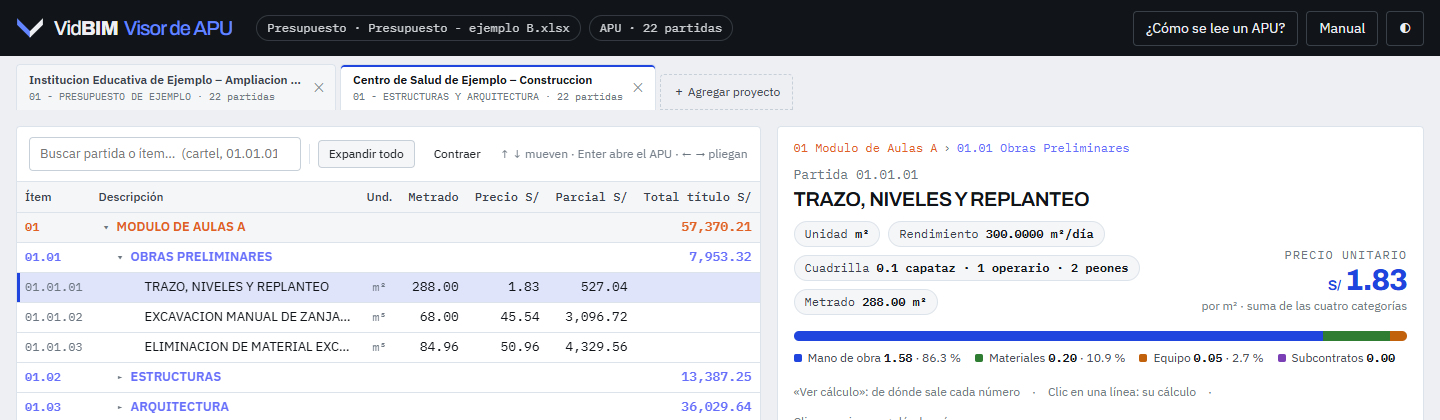
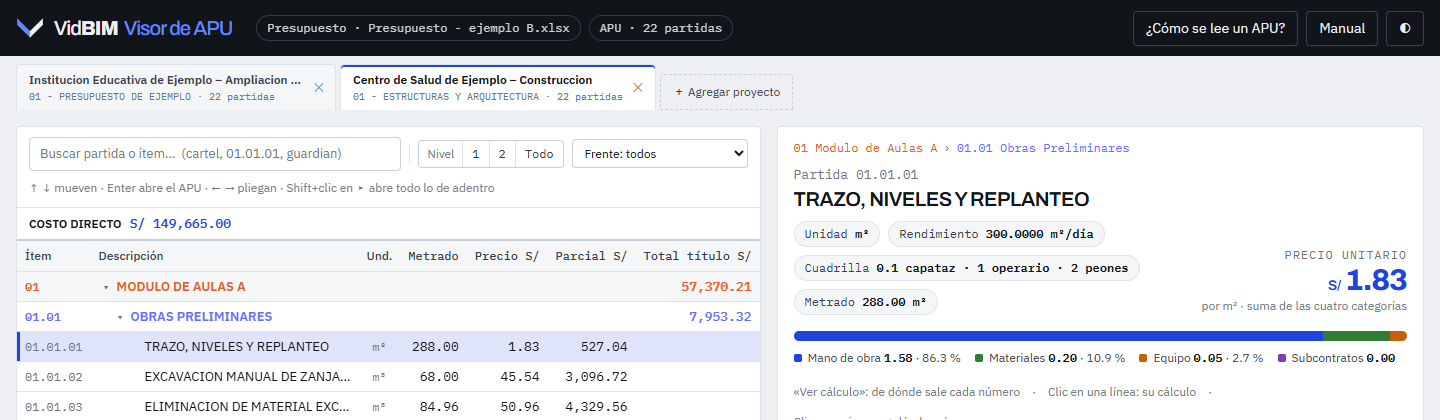
Costo directo fijo arriba, niveles 1-2-3 como Excel, filtro por frente de trabajo y Shift+clic para abrir una rama; manual actualizado

diff --git a/index.html b/index.html
@@ -97,14 +97,26 @@ button{font:inherit;cursor:pointer}
 .panel{background:var(--superficie);border:1px solid var(--linea);border-radius:var(--radio);min-width:0}
 
 /* ─ presupuesto (como la ventana de VidBIM Costos) ─ */
-.pres{position:sticky;top:16px;height:calc(100vh - var(--cabecera-alto) - 32px);max-height:calc(100vh - 32px);display:flex;flex-direction:column}
+.pres{position:sticky;top:16px;height:calc(100vh - var(--sobre-pres, 56px) - 32px);min-height:420px;max-height:calc(100vh - 32px);display:flex;flex-direction:column}
 .pres .herr{display:flex;gap:8px;align-items:center;padding:10px 12px;border-bottom:1px solid var(--linea);flex-wrap:wrap}
 .pres input{flex:1;min-width:180px;border:1px solid var(--linea-fuerte);border-radius:var(--radio);padding:6px 10px;background:var(--superficie);color:var(--tinta);font:inherit;font-size:var(--t-tabla)}
 .pres input:focus{outline:2px solid var(--azul);outline-offset:-1px}
 .pres .herr .sep{width:1px;height:20px;background:var(--linea)}
+.niveles{display:inline-flex;align-items:center;border:1px solid var(--linea-fuerte);border-radius:var(--radio);overflow:hidden;font-size:var(--t-aux)}
+.niveles span{padding:0 8px;color:var(--gris)}
+.niveles button{border:0;border-left:1px solid var(--linea);background:var(--superficie);color:var(--tinta-2);padding:4px 9px;font-family:var(--f-datos);font-size:var(--t-aux)}
+.niveles button:hover{background:var(--superficie-3)}
+.niveles button.activo{background:var(--azul-tinte);color:var(--azul);font-weight:600}
+.frente{max-width:280px;border:1px solid var(--linea-fuerte);border-radius:var(--radio);padding:5px 8px;background:var(--superficie);color:var(--tinta);font:inherit;font-size:var(--t-aux)}
+.frente.activo{border-color:var(--azul);color:var(--azul);background:var(--azul-tinte)}
+.cdfija{padding:6px 12px;border-bottom:2px solid var(--linea-fuerte);font-size:var(--t-aux);color:var(--tinta-2);display:flex;flex-wrap:wrap;gap:4px 8px;align-items:baseline}
+.cdfija b{font-family:var(--f-datos);font-size:var(--t-tabla);color:var(--azul);font-weight:600}
+.cdfija .de{font-weight:600;color:var(--tinta)}
+.cdfija small{color:var(--gris);font-family:var(--f-datos)}
 .pres .scroll{overflow:auto;flex:1;min-height:0}
 table.grilla{width:100%;border-collapse:collapse;font-size:var(--t-tabla)}
-.grilla th{position:sticky;top:0;background:var(--superficie-2);font-size:var(--t-aux);font-weight:500;color:var(--tinta-2);text-align:left;padding:6px 8px;border-bottom:1px solid var(--linea);white-space:nowrap;z-index:1}
+.grilla thead{position:sticky;top:0;z-index:2}
+.grilla th{background:var(--superficie-2);font-size:var(--t-aux);font-weight:500;color:var(--tinta-2);text-align:left;padding:6px 8px;border-bottom:1px solid var(--linea);white-space:nowrap;z-index:1}
 .grilla th.num{text-align:right}
 .grilla td{padding:4px 8px;border-bottom:1px solid var(--linea);white-space:nowrap;height:30px}
 .grilla td.de{overflow:hidden;text-overflow:ellipsis;max-width:0;width:100%}
@@ -259,6 +271,7 @@ footer.pie{max-width:1720px;margin:0 auto;padding:8px 16px 32px;font-size:var(--
   .pestanas{padding:8px 12px 0}
   .pestanas .pe{max-width:220px}
   .pres .ayuda{display:none}
+  .frente{max-width:100%;flex:1}
   .pres input{min-width:0;flex-basis:100%}
   .grilla{table-layout:fixed}
   .grilla .oc{display:none}
@@ -366,10 +379,11 @@ footer.pie{max-width:1720px;margin:0 auto;padding:8px 16px 32px;font-size:var(--
     <div class="herr">
       <input type="search" id="buscar" placeholder="Buscar partida o ítem…  (cartel, 01.01.01, guardian)" aria-label="Buscar">
       <span class="sep"></span>
-      <button class="btn chico" id="btnExpandir">Expandir todo</button>
-      <button class="btn chico texto" id="btnContraer">Contraer</button>
-      <span class="ayuda">↑ ↓ mueven · Enter abre el APU · ← → pliegan</span>
+      <div class="niveles" id="niveles" role="group" aria-label="Abrir hasta el nivel"></div>
+      <select class="frente" id="frente" aria-label="Frente de trabajo"><option value="">Frente: todos</option></select>
+      <span class="ayuda">↑ ↓ mueven · Enter abre el APU · ← → pliegan · Shift+clic en ▸ abre todo lo de adentro</span>
     </div>
+    <div class="cdfija" id="filaCd"></div>
     <div class="scroll" id="scrollPres">
       <table class="grilla" id="grilla">
         <colgroup><col class="c-it"><col><col class="oc"><col class="oc"><col class="oc"><col class="c-par"><col class="c-tot"></colgroup>
@@ -629,7 +643,7 @@ async function quitar(id) {
   const p = proyectos.find(x => x.id === id); if (!p) return;
   if (!confirm(`¿Quitar «${etiqueta(p)}»${p.sub ? ' · ' + p.sub : ''} de este navegador? Para verlo otra vez tendrá que cargar sus Excel.`)) return;
   await Almacen.borrar(id).catch(() => {});
-  proyectos = proyectos.filter(x => x !== p); armados.delete(id); estados.delete(id); try { localStorage.removeItem('visor.pos.' + id); } catch (e) {}
+  proyectos = proyectos.filter(x => x !== p); armados.delete(id); estados.delete(id); try { localStorage.removeItem('visor.pos.' + id); localStorage.removeItem('visor.vista.' + id); } catch (e) {}
   if (activo === id) { activo = null; guardar('visor.activo', ''); if (proyectos.length) cambiarA(proyectos[proyectos.length - 1].id); else mostrarPortada(); }
   else { pintarPestanas(); pintarGuardados(); }
 }
@@ -705,9 +719,15 @@ function abrirTablero(p) {
   const e = D.encabezado;
   $('#pieInfo').textContent = [titleCase(e.Proyecto || ''), (e['Costo a'] || '').toLowerCase(), `${F.filter(f => f.esPartida).length.toLocaleString('es-PE')} partidas`, `${nIns.toLocaleString('es-PE')} insumos`].filter(Boolean).join(' · ');
   $('#pieCd').innerHTML = `Costo directo <b>S/ ${f2(D.cd)}</b>`;
+  let vista = {}; try { vista = JSON.parse(leer('visor.vista.' + p.id) || '{}'); } catch (x) {}
+  nivelVista = vista.nivel ?? null; frente = vista.frente || '';
   $('#chipsArchivos').innerHTML = `<span class="chip" title="${esc(p.archivos.presupuesto)}">Presupuesto · ${esc(p.archivos.presupuesto)}</span><span class="chip">APU · ${D.apus.length.toLocaleString('es-PE')} partidas</span>`;
   $('#portada').hidden = true; $('#tablero').hidden = false; $('#pieTablero').hidden = false; $('#btnCambiar').hidden = false; $('#pestanas').hidden = false;
   pintarPestanas();
+  pintarFrentes(); pintarCd();
+  if (nivelVista !== null) plegados = new Set(F.map((f, i) => !f.esPartida && f.tieneHijos && nivelVista > 0 && f.nivel >= nivelVista ? i : -1).filter(i => i >= 0));
+  pintarNiveles();
+  ajustarAlto();
   // Donde se quedó en este proyecto (o la primera partida).
   const est = estados.get(p.id) || { item: leer('visor.pos.' + p.id) };
   $('#buscar').value = '';
@@ -724,8 +744,9 @@ function refrescar() {
   let ocultoHasta = null;   // prefijo del título plegado que oculta a los de abajo
   let visibles = 0;
   F.forEach((f, i) => {
-    let oculta = false;
-    if (filtro) oculta = !filtro.has(i);
+    let oculta = !enFrente(f.item);
+    if (oculta) { /* fuera del frente elegido */ }
+    else if (filtro) oculta = !filtro.has(i);
     else {
       if (ocultoHasta && f.item.startsWith(ocultoHasta)) oculta = true; else ocultoHasta = null;
       if (!oculta && plegados.has(i)) ocultoHasta = f.item + '.';
@@ -737,17 +758,71 @@ function refrescar() {
   });
   $('#nadaPres').hidden = visibles > 0;
 }
-function plegar(i, si) { if (D.filas[i].esPartida || !D.filas[i].tieneHijos) return; if (si) plegados.add(i); else plegados.delete(i); refrescar(); }
+function plegar(i, si) {
+  if (D.filas[i].esPartida || !D.filas[i].tieneHijos) return;
+  if (si) plegados.add(i); else plegados.delete(i);
+  if (nivelVista !== null) { nivelVista = null; pintarNiveles(); guardarVista(); }
+  refrescar();
+}
+// Shift+clic en el triángulo: abre el título y todo lo que tiene adentro (o lo cierra entero).
+function plegarRama(i) {
+  const f = D.filas[i], pre = f.item + '.';
+  const abrir = plegados.has(i) || D.filas.some((g, j) => g.item.startsWith(pre) && plegados.has(j));
+  D.filas.forEach((g, j) => { if (j === i || g.item.startsWith(pre)) { if (!g.esPartida && g.tieneHijos) { if (abrir) plegados.delete(j); else plegados.add(j); } } });
+  if (!abrir) plegados.add(i);
+  if (nivelVista !== null) { nivelVista = null; pintarNiveles(); guardarVista(); }
+  refrescar();
+}
 function abrirAncestros(i) {
   const it = D.filas[i].item.split('.');
   for (let k = 1; k < it.length; k++) { const j = porItemFila[it.slice(0, k).join('.')]; if (j != null) plegados.delete(j); }
 }
-$('#btnExpandir').addEventListener('click', () => { plegados.clear(); refrescar(); });
-$('#btnContraer').addEventListener('click', () => {
-  D.filas.forEach((f, i) => { if (!f.esPartida && f.tieneHijos && f.nivel >= 1) plegados.add(i); });
-  if (sel >= 0) { /* deja visible el nivel 1 */ }
-  refrescar();
+// ── niveles (como los botones 1 2 3 de Excel) y frente de trabajo ──
+let nivelVista = null;   // null = a mano; 0 = todo; n = abiertos hasta el nivel n
+let frente = '';         // ítem del título de nivel 2 elegido ('' = todos)
+function enFrente(item) { return !frente || item === frente || item.startsWith(frente + '.') || frente.startsWith(item + '.'); }
+function verNivel(n) {
+  nivelVista = n;
+  plegados = new Set(D.filas.map((f, i) => !f.esPartida && f.tieneHijos && n > 0 && f.nivel >= n ? i : -1).filter(i => i >= 0));
+  pintarNiveles(); refrescar(); guardarVista();
+  $('#scrollPres').scrollTop = 0;
+}
+function pintarNiveles() {
+  const max = Math.min(7, Math.max(1, ...D.filas.filter(f => !f.esPartida).map(f => f.nivel)));
+  $('#niveles').innerHTML = '<span>Nivel</span>' + Array.from({ length: max }, (_, k) => k + 1).concat([0])
+    .map(n => `<button data-nivel="${n}" class="${nivelVista === n ? 'activo' : ''}" title="${n ? `Abrir hasta el nivel ${n}` : 'Abrir todo'}">${n || 'Todo'}</button>`).join('');
+  $('#niveles').querySelectorAll('button').forEach(b => b.addEventListener('click', () => verNivel(+b.dataset.nivel)));
+}
+function pintarFrentes() {
+  const fs = D.filas.filter(f => !f.esPartida && f.nivel === 2);
+  $('#frente').innerHTML = '<option value="">Frente: todos</option>' +
+    fs.map(f => `<option value="${esc(f.item)}">${esc(f.item)} ${esc(titleCase(f.descripcion))}</option>`).join('');
+  if (!fs.some(f => f.item === frente)) frente = '';
+  $('#frente').value = frente; $('#frente').classList.toggle('activo', !!frente);
+}
+$('#frente').addEventListener('change', e => {
+  frente = e.target.value; e.target.classList.toggle('activo', !!frente);
+  if (frente) { const j = porItemFila[frente]; if (j != null) { abrirAncestros(j); plegados.delete(j); } }
+  if ($('#buscar').value.trim()) buscar(); else refrescar();
+  guardarVista(); pintarCd();
+  $('#scrollPres').scrollTop = 0;
+  // Si la partida elegida quedó fuera del frente, se elige la primera de adentro.
+  if (sel >= 0 && !enFrente(D.filas[sel].item)) { const k = D.filas.findIndex(f => f.esPartida && enFrente(f.item)); if (k >= 0) seleccionar(k); }
 });
+function guardarVista() { if (activo) guardar('visor.vista.' + activo, JSON.stringify({ nivel: nivelVista, frente })); }
+function pintarCd() {
+  const t = frente ? D.filas[porItemFila[frente]] : null;
+  $('#filaCd').innerHTML = t
+    ? `<span class="de">${esc(t.item)} ${esc(titleCase(t.descripcion))}</span><b>S/ ${f2(t.total)}</b><small>de S/ ${f2(D.cd)} (${(t.total / D.cd * 100).toFixed(1)} %)</small>`
+    : `<span class="de">COSTO DIRECTO</span><b>S/ ${f2(D.cd)}</b>`;
+}
+// Alto del panel: lo que queda de pantalla bajo la cabecera y las pestañas.
+function ajustarAlto() {
+  const p = $('#tablero'); if (p.hidden) return;
+  const arriba = p.getBoundingClientRect().top + window.scrollY;
+  document.documentElement.style.setProperty('--sobre-pres', Math.max(0, arriba) + 'px');
+}
+window.addEventListener('resize', ajustarAlto);
 
 // ── búsqueda en vivo ──
 let tBuscar = 0;
@@ -760,7 +835,7 @@ function buscar() {
   const F = D.filas, vis = new Set();
   F.forEach((f, i) => {
     const t = sinTilde(f.item + ' ' + f.descripcion);
-    if (palabras.every(p => t.includes(p))) {
+    if (enFrente(f.item) && palabras.every(p => t.includes(p))) {
       vis.add(i);
       const it = f.item.split('.');
       for (let k = 1; k < it.length; k++) { const j = porItemFila[it.slice(0, k).join('.')]; if (j != null) vis.add(j); }
@@ -781,6 +856,7 @@ function seleccionar(i, mostrarApu = true) {
 }
 function irA(i, bajar = true) {
   if (filtro && !filtro.has(i)) { $('#buscar').value = ''; filtro = null; }
+  if (!enFrente(D.filas[i].item)) { frente = ''; pintarFrentes(); pintarCd(); guardarVista(); }
   abrirAncestros(i); refrescar(); seleccionar(i);
   filasDom[i].scrollIntoView({ block: 'center' });
   if (bajar && matchMedia('(max-width:1100px)').matches) $('#apu').scrollIntoView({ behavior: 'smooth', block: 'start' });
@@ -788,7 +864,7 @@ function irA(i, bajar = true) {
 $('#cuerpoPres').addEventListener('click', e => {
   const tr = e.target.closest('tr'); if (!tr) return;
   const i = +tr.dataset.i;
-  if (e.target.classList.contains('pl')) { plegar(i, !plegados.has(i)); return; }
+  if (e.target.classList.contains('pl')) { if (e.shiftKey) plegarRama(i); else plegar(i, !plegados.has(i)); return; }
   seleccionar(i);
 });
 $('#cuerpoPres').addEventListener('dblclick', e => { const tr = e.target.closest('tr'); if (tr) plegar(+tr.dataset.i, !plegados.has(+tr.dataset.i)); });

diff --git a/manual.html b/manual.html
@@ -107,7 +107,7 @@ footer{max-width:880px;margin:0 auto;padding:0 16px 32px;font-size:var(--t-aux);
       <li><b>＋ Agregar proyecto</b> (al final de las pestañas; en el celular, el <b>＋</b> de la cabecera) lleva a la portada para cargar otros dos Excel.</li>
       <li>Si carga otra vez el mismo proyecto (mismo nombre y subpresupuesto), se <b>actualiza</b> en vez de repetirse: útil cuando exporta una versión nueva.</li>
       <li>La <b>✕</b> de una pestaña quita ese proyecto de este navegador. En la portada puede <b>Quitar</b> uno o <b>Borrar todos</b>.</li>
-      <li>Al volver otro día, el visor abre solo el último proyecto que usó. En otra computadora o en modo privado habrá que cargar los Excel de nuevo.</li>
+      <li>Al volver otro día, el visor abre solo el último proyecto que usó, con su nivel, frente y partida. En otra computadora o en modo privado habrá que cargar los Excel de nuevo.</li>
     </ul>
     <figure><img src="manual/2b-pestanas.png" alt="Pestañas de dos proyectos sobre el presupuesto" loading="lazy"><figcaption>Dos proyectos abiertos: una institución educativa y un centro de salud (ejemplos).</figcaption></figure>
     <figure class="chica"><img src="manual/2c-proyectos.png" alt="Portada con la lista de proyectos guardados" loading="lazy"><figcaption>En la portada, sus proyectos guardados: clic en uno para abrirlo.</figcaption></figure>
@@ -115,13 +115,16 @@ footer{max-width:880px;margin:0 auto;padding:0 16px 32px;font-size:var(--t-aux);
 
   <section class="paso" id="presupuesto">
     <header><span class="n">3</span><h2>Moverse en el presupuesto</h2></header>
-    <p>A la izquierda está el presupuesto, como en la ventana de VidBIM Costos: títulos en el color de su nivel, partidas con metrado, precio y parcial, y el <b>costo directo</b> abajo. Al elegir una partida, su APU aparece a la derecha.</p>
+    <p>A la izquierda está el presupuesto, como en la ventana de VidBIM Costos: títulos en el color de su nivel y partidas con metrado, precio y parcial. Encima de la tabla, siempre a la vista, va el <b>costo directo</b>. Al elegir una partida, su APU aparece a la derecha.</p>
     <ul>
       <li><b>Buscar:</b> escriba parte del nombre o del ítem (<code>pintura latex</code>, <code>01.03</code>); filtra al instante.</li>
-      <li><b>Plegar:</b> clic en el triángulo de un título, o <b>Expandir todo</b> / <b>Contraer</b>.</li>
+      <li><b>Nivel 1 2 3 … Todo:</b> como los botones de agrupar de Excel. <b>1</b> deja solo los títulos principales, <b>2</b> agrega los de segundo nivel, <b>3</b> los del tercero, y <b>Todo</b> abre todas las partidas.</li>
+      <li><b>Frente:</b> elija un frente de trabajo (un título de segundo nivel) para ver solo esa rama. Arriba sale su total y qué parte es del costo directo. Se combina con la búsqueda: «pintura» dentro de un solo frente.</li>
+      <li><b>Plegar:</b> clic en el triángulo de un título. Con <kbd>Shift</kbd>+clic se abre (o se cierra) el título con todo lo que tiene adentro.</li>
       <li><b>Teclado:</b> <kbd>↑</kbd> <kbd>↓</kbd> pasan de fila, <kbd>←</kbd> <kbd>→</kbd> pliegan o suben al título, <kbd>Enter</kbd> lleva al APU.</li>
     </ul>
     <figure><img src="manual/3-pantalla.png" alt="Pantalla completa: presupuesto a la izquierda y APU a la derecha" loading="lazy"><figcaption>En el celular el presupuesto queda arriba y el APU abajo.</figcaption></figure>
+    <figure class="chica"><img src="manual/4b-nivel-frente.png" alt="Nivel 2 y un frente elegido, con su total arriba" loading="lazy"><figcaption>Nivel 2 y el frente 01.03 elegido: solo esa rama, con su total y su parte del costo directo.</figcaption></figure>
     <figure class="chica"><img src="manual/4-buscar.png" alt="Búsqueda de pintura latex" loading="lazy"><figcaption>Buscar «pintura latex» deja solo esas partidas, con sus títulos.</figcaption></figure>
   </section>
 
